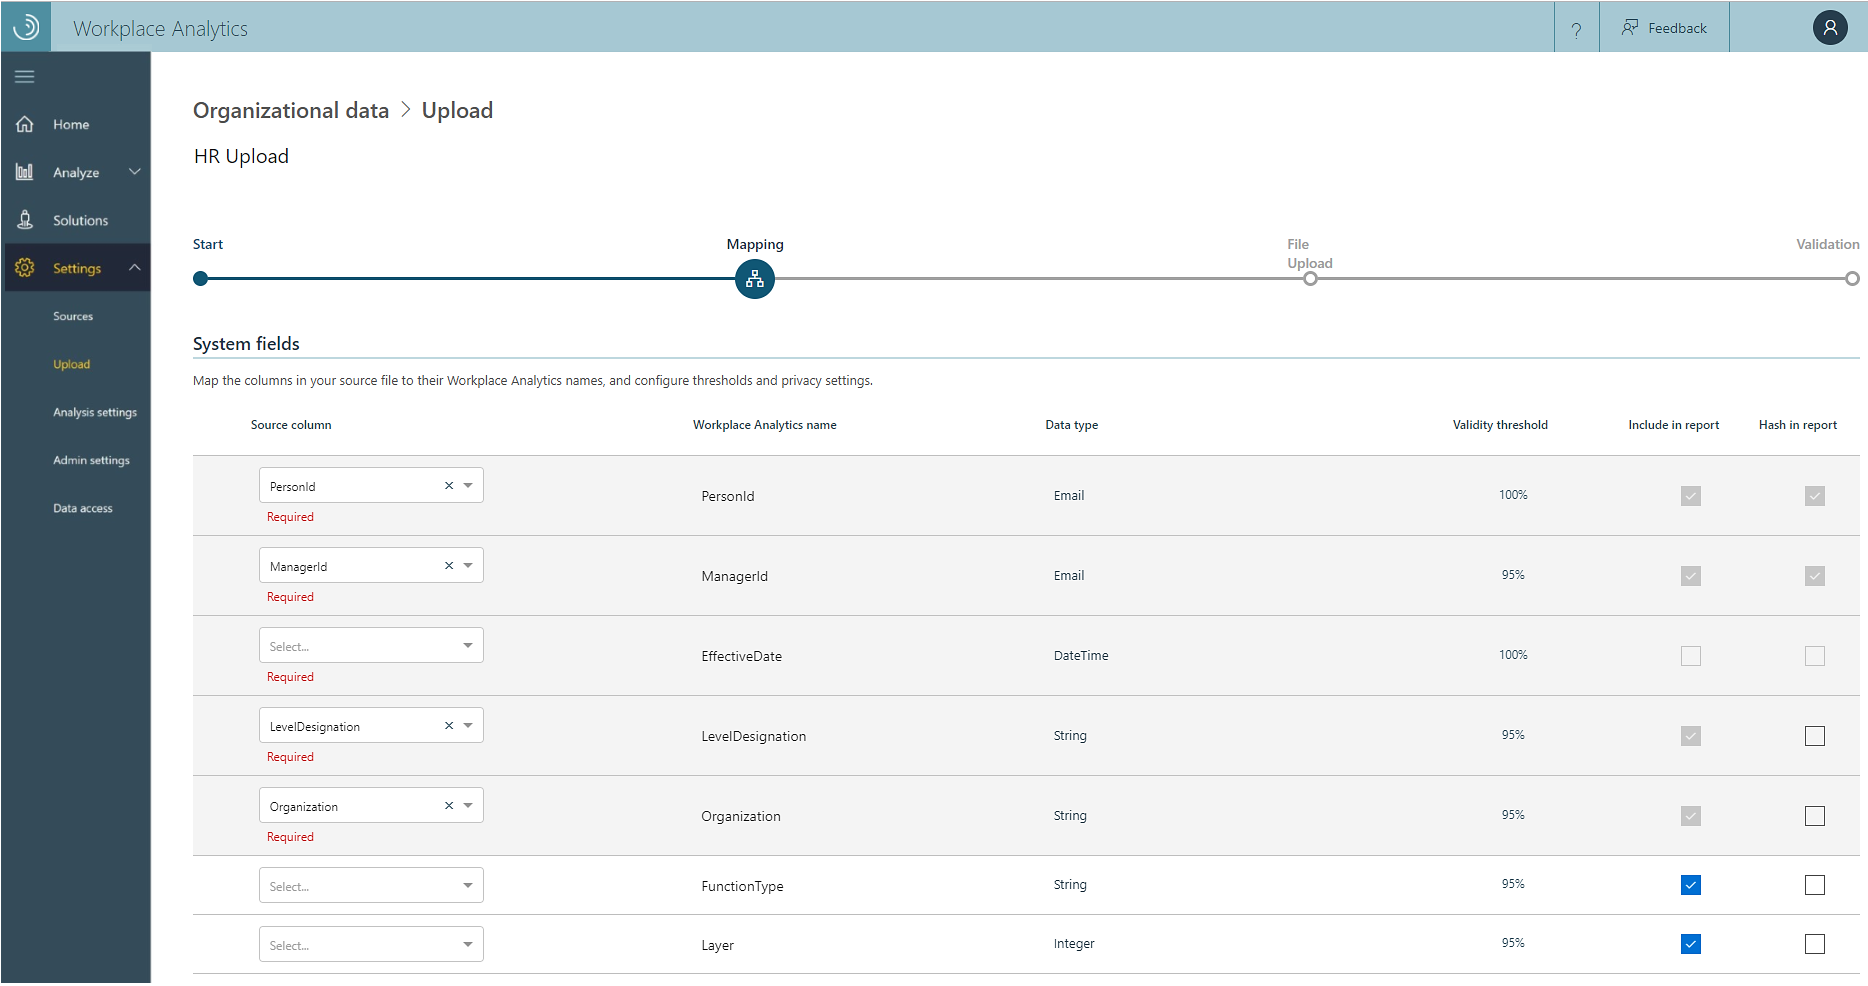
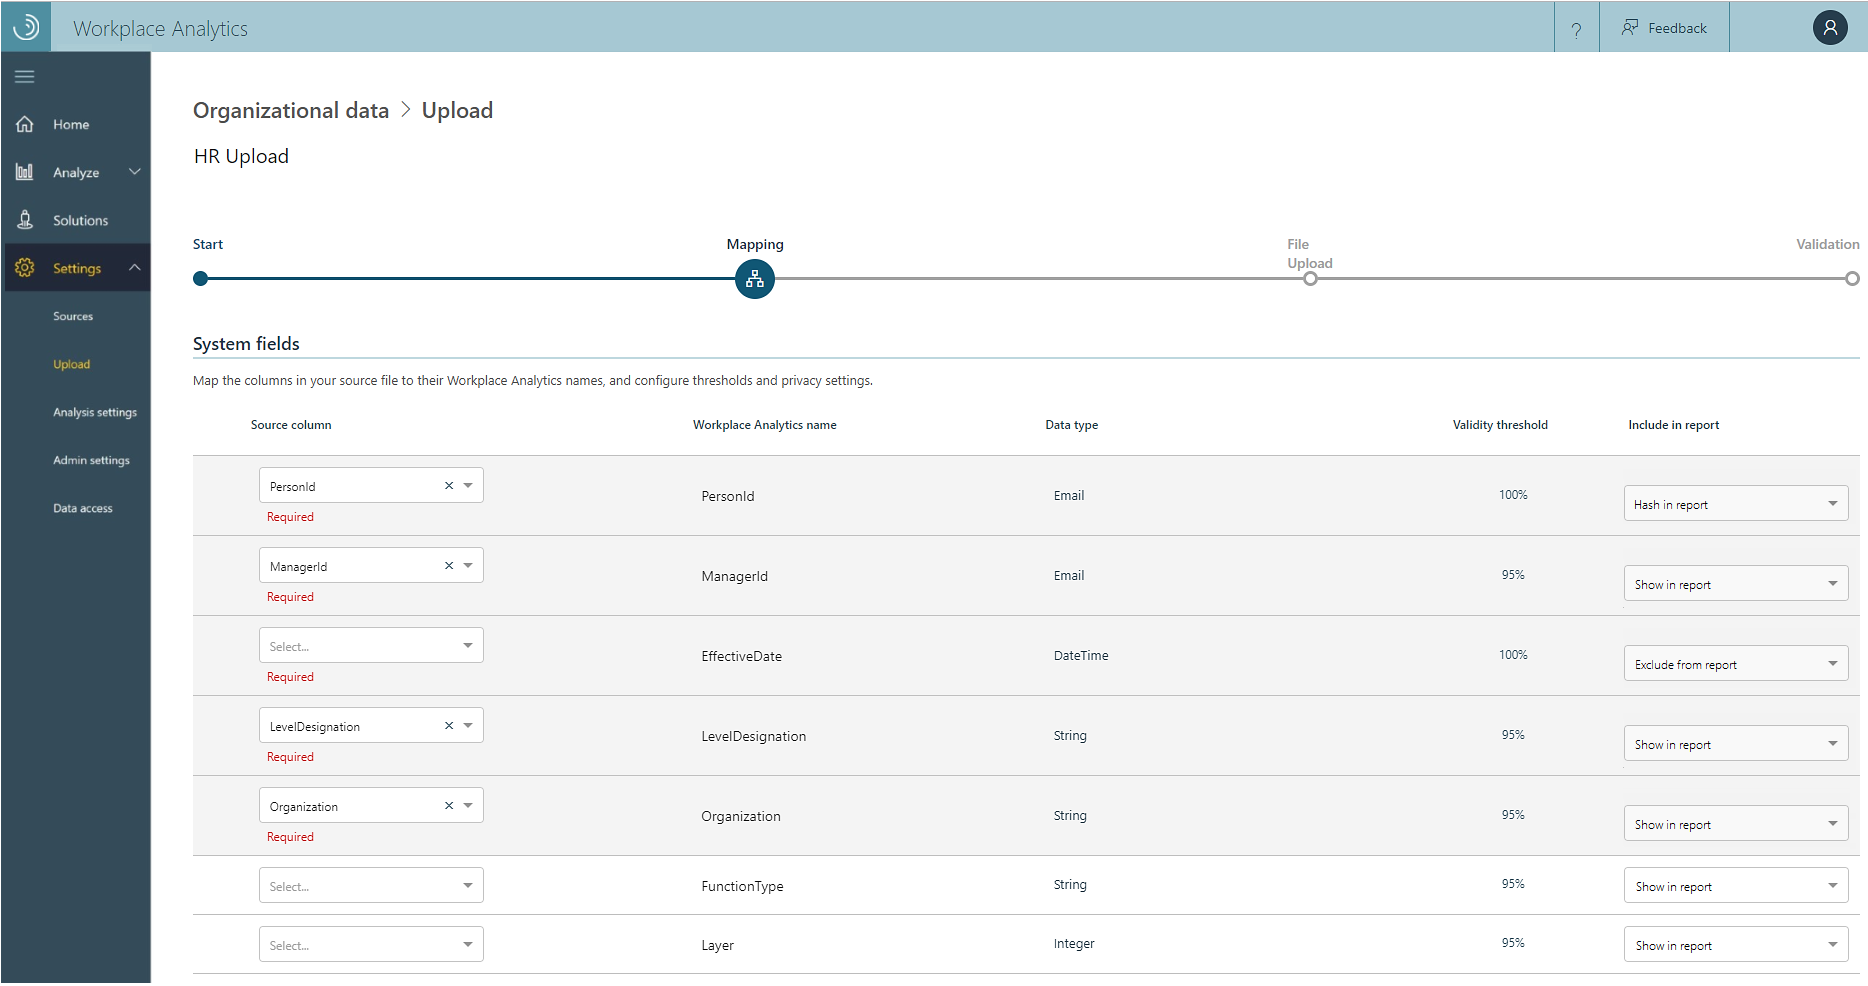
update pngs of UI in upload org data topics

diff --git a/WorkplaceAnalytics/Includes/org-data-fields-tables.md b/WorkplaceAnalytics/Includes/org-data-fields-tables.md
@@ -44,8 +44,8 @@ ms.prod: wpa
 
 The drop-down menu under **Include in report** offers the following options for each of the columns in your source data:
 
-   * **Show in report:** Select this option to let the actual data value display in the report just as it was imported in the organizational data file.
+   * **Show in report:** Let the actual data value display in the report just as it was imported in the organizational data file.
 
-   * **Exclude from report:** Select this option to keep the data value  from appearing in the report.
+   * **Exclude from report:** Prevent the data value from appearing in the report.
 
-   * **Hash in report** de-identifies sensitive data. If you select this option, Workplace Analytics includes the data in the report that it generates about the import operation, but instead of displaying the actual value that was taken from the source file, it shows a hashed version of the value – a format that cannot be read.
+   * **Hash in report** de-identifies sensitive data. This option includes the data in the report that it generates about the import operation, but instead of displaying the actual value that was taken from the source file, it shows a hashed version of the value – a format that cannot be read.
